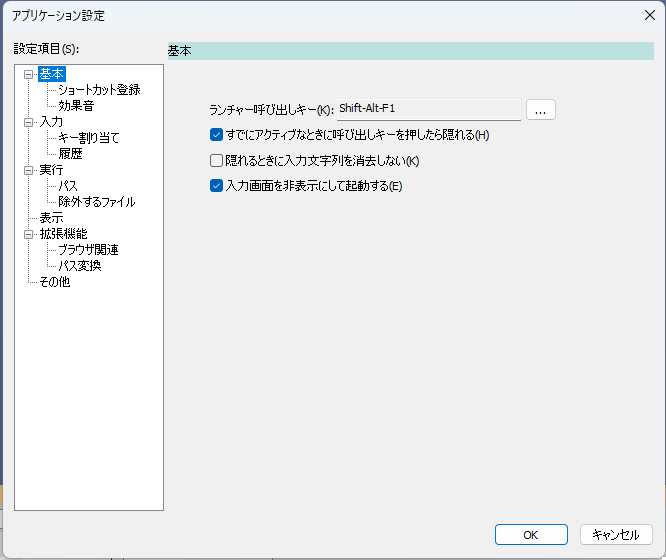
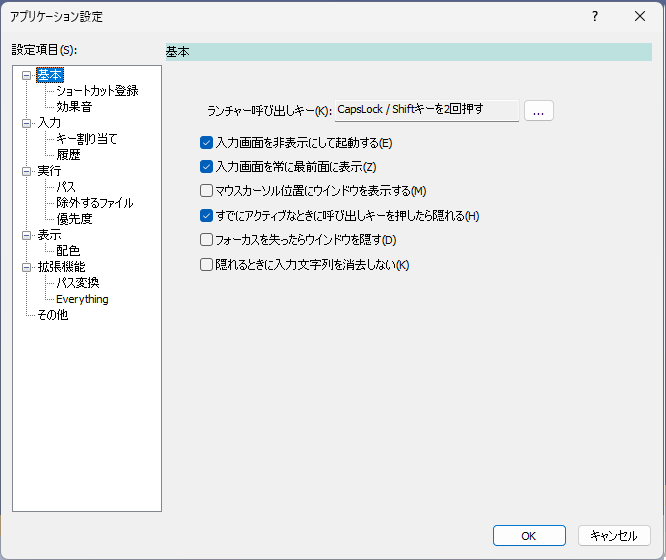
アプリ設定の`表示`ページにあった設定項目の一部を`基本`ページに移動

diff --git a/soyokaze/settingwindow/BasicSettingDialog.cpp b/soyokaze/settingwindow/BasicSettingDialog.cpp
@@ -2,6 +2,7 @@
 #include "pch.h"
 #include "framework.h"
 #include "BasicSettingDialog.h"
+#include "hotkey/HotKeyAttribute.h"
 #include "hotkey/AppHotKeyDialog.h"
 #include "setting/Settings.h"
 #include "resource.h"
@@ -10,16 +11,43 @@
 #define new DEBUG_NEW
 #endif
 
+struct BasicSettingDialog::PImpl
+{
+	// ランチャー呼び出しキー（表示用)
+	CString mHotKey;
+	HOTKEY_ATTR mHotKeyAttr;
+
+	bool mIsEnableHotKey = true;
+	bool mIsEnableModifierHotKey = false;
+	UINT mModifierFirstVK = VK_CONTROL;
+	UINT mModifierSecondVK = VK_CONTROL;
+
+	// 表示中にホットキーを押したら隠れる
+	BOOL mIsShowToggle = true;
+	// 入力画面を非表示にするときに入力文字列を消去しない
+	BOOL mIsKeepTextWhenDlgHide = false;
+	// 起動直後は入力画面を非表示にする
+	BOOL mIsHideOnRun = false;
+	// 入力画面を常に最前面に表示
+	BOOL mIsTopMost = FALSE;
+	// アクティブ状態でなくなったらウインドウを隠す
+	BOOL mIsHideOnInactive = FALSE;
+	// マウスカーソル位置に入力欄を表示する
+	BOOL mIsShowMainWindowOnCursor = FALSE;
+
+
+	
+};
+
+////////////////////////////////////////////////////////////////////////////////
+////////////////////////////////////////////////////////////////////////////////
+////////////////////////////////////////////////////////////////////////////////
+
+
 
 BasicSettingDialog::BasicSettingDialog(CWnd* parentWnd) : 
 	SettingPage(_T("基本"), IDD_BASICSETTING, parentWnd),
-	mIsEnableHotKey(true),
-	mIsEnableModifierHotKey(false),
-	mModifierFirstVK(VK_CONTROL),
-	mModifierSecondVK(VK_CONTROL),
-	mIsShowToggle(true),
-	mIsKeepTextWhenDlgHide(false),
-	mIsHideOnRun(false)
+	in(new PImpl)
 {
 }
 
@@ -46,16 +74,20 @@ void BasicSettingDialog::OnOK()
 {
 	auto settingsPtr = (Settings*)GetParam();
 
-	settingsPtr->Set(_T("HotKey:Modifiers"), (int)mHotKeyAttr.GetModifiers());
-	settingsPtr->Set(_T("HotKey:VirtualKeyCode"), (int)mHotKeyAttr.GetVKCode());
-	settingsPtr->Set(_T("HotKey:IsEnableHotKey"), mIsEnableHotKey);
-	settingsPtr->Set(_T("HotKey:IsEnableModifierHotKey"), mIsEnableModifierHotKey);
-	settingsPtr->Set(_T("HotKey:FirstModifierVirtualKeyCode"), (int)mModifierFirstVK);
-	settingsPtr->Set(_T("HotKey:SecondModifierVirtualKeyCode"),(int) mModifierSecondVK);
+	settingsPtr->Set(_T("HotKey:Modifiers"), (int)in->mHotKeyAttr.GetModifiers());
+	settingsPtr->Set(_T("HotKey:VirtualKeyCode"), (int)in->mHotKeyAttr.GetVKCode());
+	settingsPtr->Set(_T("HotKey:IsEnableHotKey"), in->mIsEnableHotKey);
+	settingsPtr->Set(_T("HotKey:IsEnableModifierHotKey"), in->mIsEnableModifierHotKey);
+	settingsPtr->Set(_T("HotKey:FirstModifierVirtualKeyCode"), (int)in->mModifierFirstVK);
+	settingsPtr->Set(_T("HotKey:SecondModifierVirtualKeyCode"),(int) in->mModifierSecondVK);
 
-	settingsPtr->Set(_T("Soyokaze:ShowToggle"), (bool)mIsShowToggle);
-	settingsPtr->Set(_T("Soyokaze:IsIKeepTextWhenDlgHide"), (bool)mIsKeepTextWhenDlgHide);
-	settingsPtr->Set(_T("Soyokaze:IsHideOnStartup"), (bool)mIsHideOnRun);
+	settingsPtr->Set(_T("Soyokaze:ShowToggle"), (bool)in->mIsShowToggle);
+	settingsPtr->Set(_T("Soyokaze:IsIKeepTextWhenDlgHide"), (bool)in->mIsKeepTextWhenDlgHide);
+	settingsPtr->Set(_T("Soyokaze:IsHideOnStartup"), (bool)in->mIsHideOnRun);
+	settingsPtr->Set(_T("Soyokaze:TopMost"), (bool)in->mIsTopMost);
+	settingsPtr->Set(_T("Soyokaze:IsHideOnInactive"), (bool)in->mIsHideOnInactive);
+	settingsPtr->Set(_T("Soyokaze:IsShowMainWindowOnCurorPos"), (bool)in->mIsShowMainWindowOnCursor);
+
 
 	__super::OnOK();
 }
@@ -64,10 +96,13 @@ void BasicSettingDialog::DoDataExchange(CDataExchange* pDX)
 {
 	__super::DoDataExchange(pDX);
 
-	DDX_Text(pDX, IDC_EDIT_HOTKEY, mHotKey);
-	DDX_Check(pDX, IDC_CHECK_SHOWTOGGLE, mIsShowToggle);
-	DDX_Check(pDX, IDC_CHECK_KEEPTEXTWHENDLGHIDE, mIsKeepTextWhenDlgHide);
-	DDX_Check(pDX, IDC_CHECK_HIDEONRUN, mIsHideOnRun);
+	DDX_Text(pDX, IDC_EDIT_HOTKEY, in->mHotKey);
+	DDX_Check(pDX, IDC_CHECK_SHOWTOGGLE, in->mIsShowToggle);
+	DDX_Check(pDX, IDC_CHECK_KEEPTEXTWHENDLGHIDE, in->mIsKeepTextWhenDlgHide);
+	DDX_Check(pDX, IDC_CHECK_HIDEONRUN, in->mIsHideOnRun);
+	DDX_Check(pDX, IDC_CHECK_TOPMOST, in->mIsTopMost);
+	DDX_Check(pDX, IDC_CHECK_HIDEONINACTIVE, in->mIsHideOnInactive);
+	DDX_Check(pDX, IDC_CHECK_MOVETOCURSOR, in->mIsShowMainWindowOnCursor);
 }
 
 BEGIN_MESSAGE_MAP(BasicSettingDialog, SettingPage)
@@ -88,16 +123,16 @@ BOOL BasicSettingDialog::OnInitDialog()
 bool BasicSettingDialog::UpdateStatus()
 {
 	CString text;
-	if (mIsEnableHotKey) {
-		text = mHotKeyAttr.ToString();
+	if (in->mIsEnableHotKey) {
+		text = in->mHotKeyAttr.ToString();
 	}
-	if (mIsEnableModifierHotKey) {
+	if (in->mIsEnableModifierHotKey) {
 		if (text.IsEmpty() == FALSE) {
 			text += _T(" / ");
 		}
-		text += AppHotKeyDialog::ToString(mModifierFirstVK, mModifierSecondVK);
+		text += AppHotKeyDialog::ToString(in->mModifierFirstVK, in->mModifierSecondVK);
 	}
-	mHotKey = text;
+	in->mHotKey = text;
 
 	return true;
 }
@@ -106,20 +141,20 @@ void BasicSettingDialog::OnButtonHotKey()
 {
 	UpdateData();
 
-	AppHotKeyDialog dlg(mHotKeyAttr, this);
-	dlg.SetEnableHotKey(mIsEnableHotKey);
-	dlg.SetEnableModifierHotKey(mIsEnableModifierHotKey);
-	dlg.SetModifierFirstVK(mModifierFirstVK);
-	dlg.SetModifierSecondVK(mModifierSecondVK);
+	AppHotKeyDialog dlg(in->mHotKeyAttr, this);
+	dlg.SetEnableHotKey(in->mIsEnableHotKey);
+	dlg.SetEnableModifierHotKey(in->mIsEnableModifierHotKey);
+	dlg.SetModifierFirstVK(in->mModifierFirstVK);
+	dlg.SetModifierSecondVK(in->mModifierSecondVK);
 
 	if (dlg.DoModal() != IDOK) {
 		return ;
 	}
-	dlg.GetAttribute(mHotKeyAttr);
-	mIsEnableHotKey = dlg.IsEnableHotKey();
-	mIsEnableModifierHotKey = dlg.IsEnableModifierHotKey();
-	mModifierFirstVK = dlg.GetModifierFirstVK();
-	mModifierSecondVK = dlg.GetModifierSecondVK();
+	dlg.GetAttribute(in->mHotKeyAttr);
+	in->mIsEnableHotKey = dlg.IsEnableHotKey();
+	in->mIsEnableModifierHotKey = dlg.IsEnableModifierHotKey();
+	in->mModifierFirstVK = dlg.GetModifierFirstVK();
+	in->mModifierSecondVK = dlg.GetModifierSecondVK();
 
 	UpdateStatus();
 	UpdateData(FALSE);
@@ -129,18 +164,21 @@ void BasicSettingDialog::OnEnterSettings()
 {
 	auto settingsPtr = (Settings*)GetParam();
 
-	mHotKeyAttr = HOTKEY_ATTR(settingsPtr->Get(_T("HotKey:Modifiers"), MOD_ALT),
+	in->mHotKeyAttr = HOTKEY_ATTR(settingsPtr->Get(_T("HotKey:Modifiers"), MOD_ALT),
 		                        settingsPtr->Get(_T("HotKey:VirtualKeyCode"), VK_SPACE));
-	mHotKey = mHotKeyAttr.ToString();
+	in->mHotKey = in->mHotKeyAttr.ToString();
 
-	mIsEnableHotKey = settingsPtr->Get(_T("HotKey:IsEnableHotKey"), true);
-	mIsEnableModifierHotKey = settingsPtr->Get(_T("HotKey:IsEnableModifierHotKey"), false);
-	mModifierFirstVK = settingsPtr->Get(_T("HotKey:FirstModifierVirtualKeyCode"), VK_CONTROL);
-	mModifierSecondVK = settingsPtr->Get(_T("HotKey:SecondModifierVirtualKeyCode"), VK_CONTROL);
+	in->mIsEnableHotKey = settingsPtr->Get(_T("HotKey:IsEnableHotKey"), true);
+	in->mIsEnableModifierHotKey = settingsPtr->Get(_T("HotKey:IsEnableModifierHotKey"), false);
+	in->mModifierFirstVK = settingsPtr->Get(_T("HotKey:FirstModifierVirtualKeyCode"), VK_CONTROL);
+	in->mModifierSecondVK = settingsPtr->Get(_T("HotKey:SecondModifierVirtualKeyCode"), VK_CONTROL);
 
-	mIsShowToggle = settingsPtr->Get(_T("Soyokaze:ShowToggle"), true);
-	mIsKeepTextWhenDlgHide = settingsPtr->Get(_T("Soyokaze:IsIKeepTextWhenDlgHide"), false);
-	mIsHideOnRun = settingsPtr->Get(_T("Soyokaze:IsHideOnStartup"), false);
+	in->mIsShowToggle = settingsPtr->Get(_T("Soyokaze:ShowToggle"), true);
+	in->mIsKeepTextWhenDlgHide = settingsPtr->Get(_T("Soyokaze:IsIKeepTextWhenDlgHide"), false);
+	in->mIsHideOnRun = settingsPtr->Get(_T("Soyokaze:IsHideOnStartup"), false);
+	in->mIsTopMost = settingsPtr->Get(_T("Soyokaze:TopMost"), false);
+	in->mIsHideOnInactive = settingsPtr->Get(_T("Soyokaze:IsHideOnInactive"), false);
+	in->mIsShowMainWindowOnCursor = settingsPtr->Get(_T("Soyokaze:IsShowMainWindowOnCurorPos"), false);
 
 }
 

diff --git a/soyokaze/settingwindow/ViewSettingDialog.cpp b/soyokaze/settingwindow/ViewSettingDialog.cpp
@@ -15,19 +15,10 @@ struct ViewSettingDialog::PImpl
 	// 入力欄のアイコンを表示する
 	BOOL mIsDrawIcon = TRUE;
 
-	// 入力画面を常に最前面に表示
-	BOOL mIsTopMost = FALSE;
-
-	// アクティブ状態でなくなったらウインドウを隠す
-	BOOL mIsHideOnInactive = FALSE;
-
 	// 半透明の表示方法
 	int mTransparencyType = 0;
 	// 半透明表示の透明度
 	UINT mAlpha = 128;
-
-	// マウスカーソル位置に入力欄を表示する
-	BOOL mIsShowMainWindowOnCursor = FALSE;
 
 	// コマンド種別を表示するか?
 	BOOL mIsShowCommandType = TRUE;
@@ -75,9 +66,6 @@ void ViewSettingDialog::OnOK()
 	auto settingsPtr = (Settings*)GetParam();
 	settingsPtr->Set(_T("ViewSetting:IsDrawIcon"), (bool)in->mIsDrawIcon);
 
-	settingsPtr->Set(_T("Soyokaze:TopMost"), (bool)in->mIsTopMost);
-	settingsPtr->Set(_T("Soyokaze:IsHideOnInactive"), (bool)in->mIsHideOnInactive);
-
 	if (in->mTransparencyType == 0) {
 		settingsPtr->Set(_T("WindowTransparency:Enable"), true);
 		settingsPtr->Set(_T("WindowTransparency:InactiveOnly"), true);
@@ -95,7 +83,6 @@ void ViewSettingDialog::OnOK()
 
 	settingsPtr->Set(_T("Soyokaze:DefaultComment"), in->mDefaultComment);
 
-	settingsPtr->Set(_T("Soyokaze:IsShowMainWindowOnCurorPos"), (bool)in->mIsShowMainWindowOnCursor);
 	settingsPtr->Set(_T("Soyokaze:IsShowCommandType"), (bool)in->mIsShowCommandType);
 	settingsPtr->Set(_T("Soyokaze:IsShowGuide"), (bool)in->mIsShowGuide);
 	settingsPtr->Set(_T("Soyokaze:IsAlternateColor"), (bool)in->mIsAlternateColor);
@@ -116,13 +103,10 @@ void ViewSettingDialog::DoDataExchange(CDataExchange* pDX)
 	__super::DoDataExchange(pDX);
 
 	DDX_Check(pDX, IDC_CHECK_DRAWICON, in->mIsDrawIcon);
-	DDX_Check(pDX, IDC_CHECK_TOPMOST, in->mIsTopMost);
-	DDX_Check(pDX, IDC_CHECK_HIDEONINACTIVE, in->mIsHideOnInactive);
 	DDX_CBIndex(pDX, IDC_COMBO_TRANSPARENCY, in->mTransparencyType);
 	DDX_Text(pDX, IDC_EDIT_ALPHA, in->mAlpha);
 	DDV_MinMaxInt(pDX, in->mAlpha, 0, 255);
 	DDX_Text(pDX, IDC_EDIT_DEFAULTCOMMENT, in->mDefaultComment);
-	DDX_Check(pDX, IDC_CHECK_MOVETOCURSOR, in->mIsShowMainWindowOnCursor);
 	DDX_Check(pDX, IDC_CHECK_SHOWCOMMANDTYPE, in->mIsShowCommandType);
 	DDX_Check(pDX, IDC_CHECK_SHOWGUIDE, in->mIsShowGuide);
 	DDX_Check(pDX, IDC_CHECK_ALTERNATELISTCOLOR, in->mIsAlternateColor);
@@ -169,8 +153,6 @@ void ViewSettingDialog::OnEnterSettings()
 	auto settingsPtr = (Settings*)GetParam();
 
 	in->mIsDrawIcon = settingsPtr->Get(_T("ViewSetting:IsDrawIcon"), true);
-	in->mIsTopMost = settingsPtr->Get(_T("Soyokaze:TopMost"), false);
-	in->mIsHideOnInactive = settingsPtr->Get(_T("Soyokaze:IsHideOnInactive"), false);
 
 	if (settingsPtr->Get(_T("WindowTransparency:Enable"), false) == false) {
 		in->mTransparencyType = 2;
@@ -188,7 +170,6 @@ void ViewSettingDialog::OnEnterSettings()
 
 	CString defStr((LPCTSTR)ID_STRING_DEFAULTDESCRIPTION);
 	in->mDefaultComment = settingsPtr->Get(_T("Soyokaze:DefaultComment"), defStr);
-	in->mIsShowMainWindowOnCursor = settingsPtr->Get(_T("Soyokaze:IsShowMainWindowOnCurorPos"), false);
 	in->mIsShowCommandType = settingsPtr->Get(_T("Soyokaze:IsShowCommandType"), true);
 	in->mIsShowGuide = settingsPtr->Get(_T("Soyokaze:IsShowGuide"), true);
 	in->mIsAlternateColor = settingsPtr->Get(_T("Soyokaze:IsAlternateColor"), true);

diff --git a/soyokaze/settingwindow/BasicSettingDialog.h b/soyokaze/settingwindow/BasicSettingDialog.h
@@ -1,34 +1,18 @@
 #pragma once
 
 #include "gui/SettingPage.h"
-#include "hotkey/HotKeyAttribute.h"
-// 
+#include <memory>
+
+
 class BasicSettingDialog : public SettingPage
 {
 public:
 	BasicSettingDialog(CWnd* parentWnd);
 	virtual ~BasicSettingDialog();
 
-	// ランチャー呼び出しキー（表示用)
-	CString mHotKey;
-	HOTKEY_ATTR mHotKeyAttr;
-
-	//
-	bool mIsEnableHotKey;
-	bool mIsEnableModifierHotKey;
-	UINT mModifierFirstVK;
-	UINT mModifierSecondVK;
-
-	// 表示中にホットキーを押したら隠れる
-	BOOL mIsShowToggle;
-
-	// 入力画面を非表示にするときに入力文字列を消去しない
-	BOOL mIsKeepTextWhenDlgHide;
-
-
-	// 起動直後は入力画面を非表示にする
-	BOOL mIsHideOnRun;
-
+private:
+	struct PImpl;
+	std::unique_ptr<PImpl> in;
 protected:
 	bool UpdateStatus();
 

diff --git a/CHANGELOG.md b/CHANGELOG.md
@@ -2,7 +2,9 @@
 
 ## [Unreleased]
 
-なし
+### Changed
+
+- アプリ設定の`表示`ページにあった設定項目の一部を`基本`ページに移動
 
 ## [0.30.0] - 2024-11-09
 
